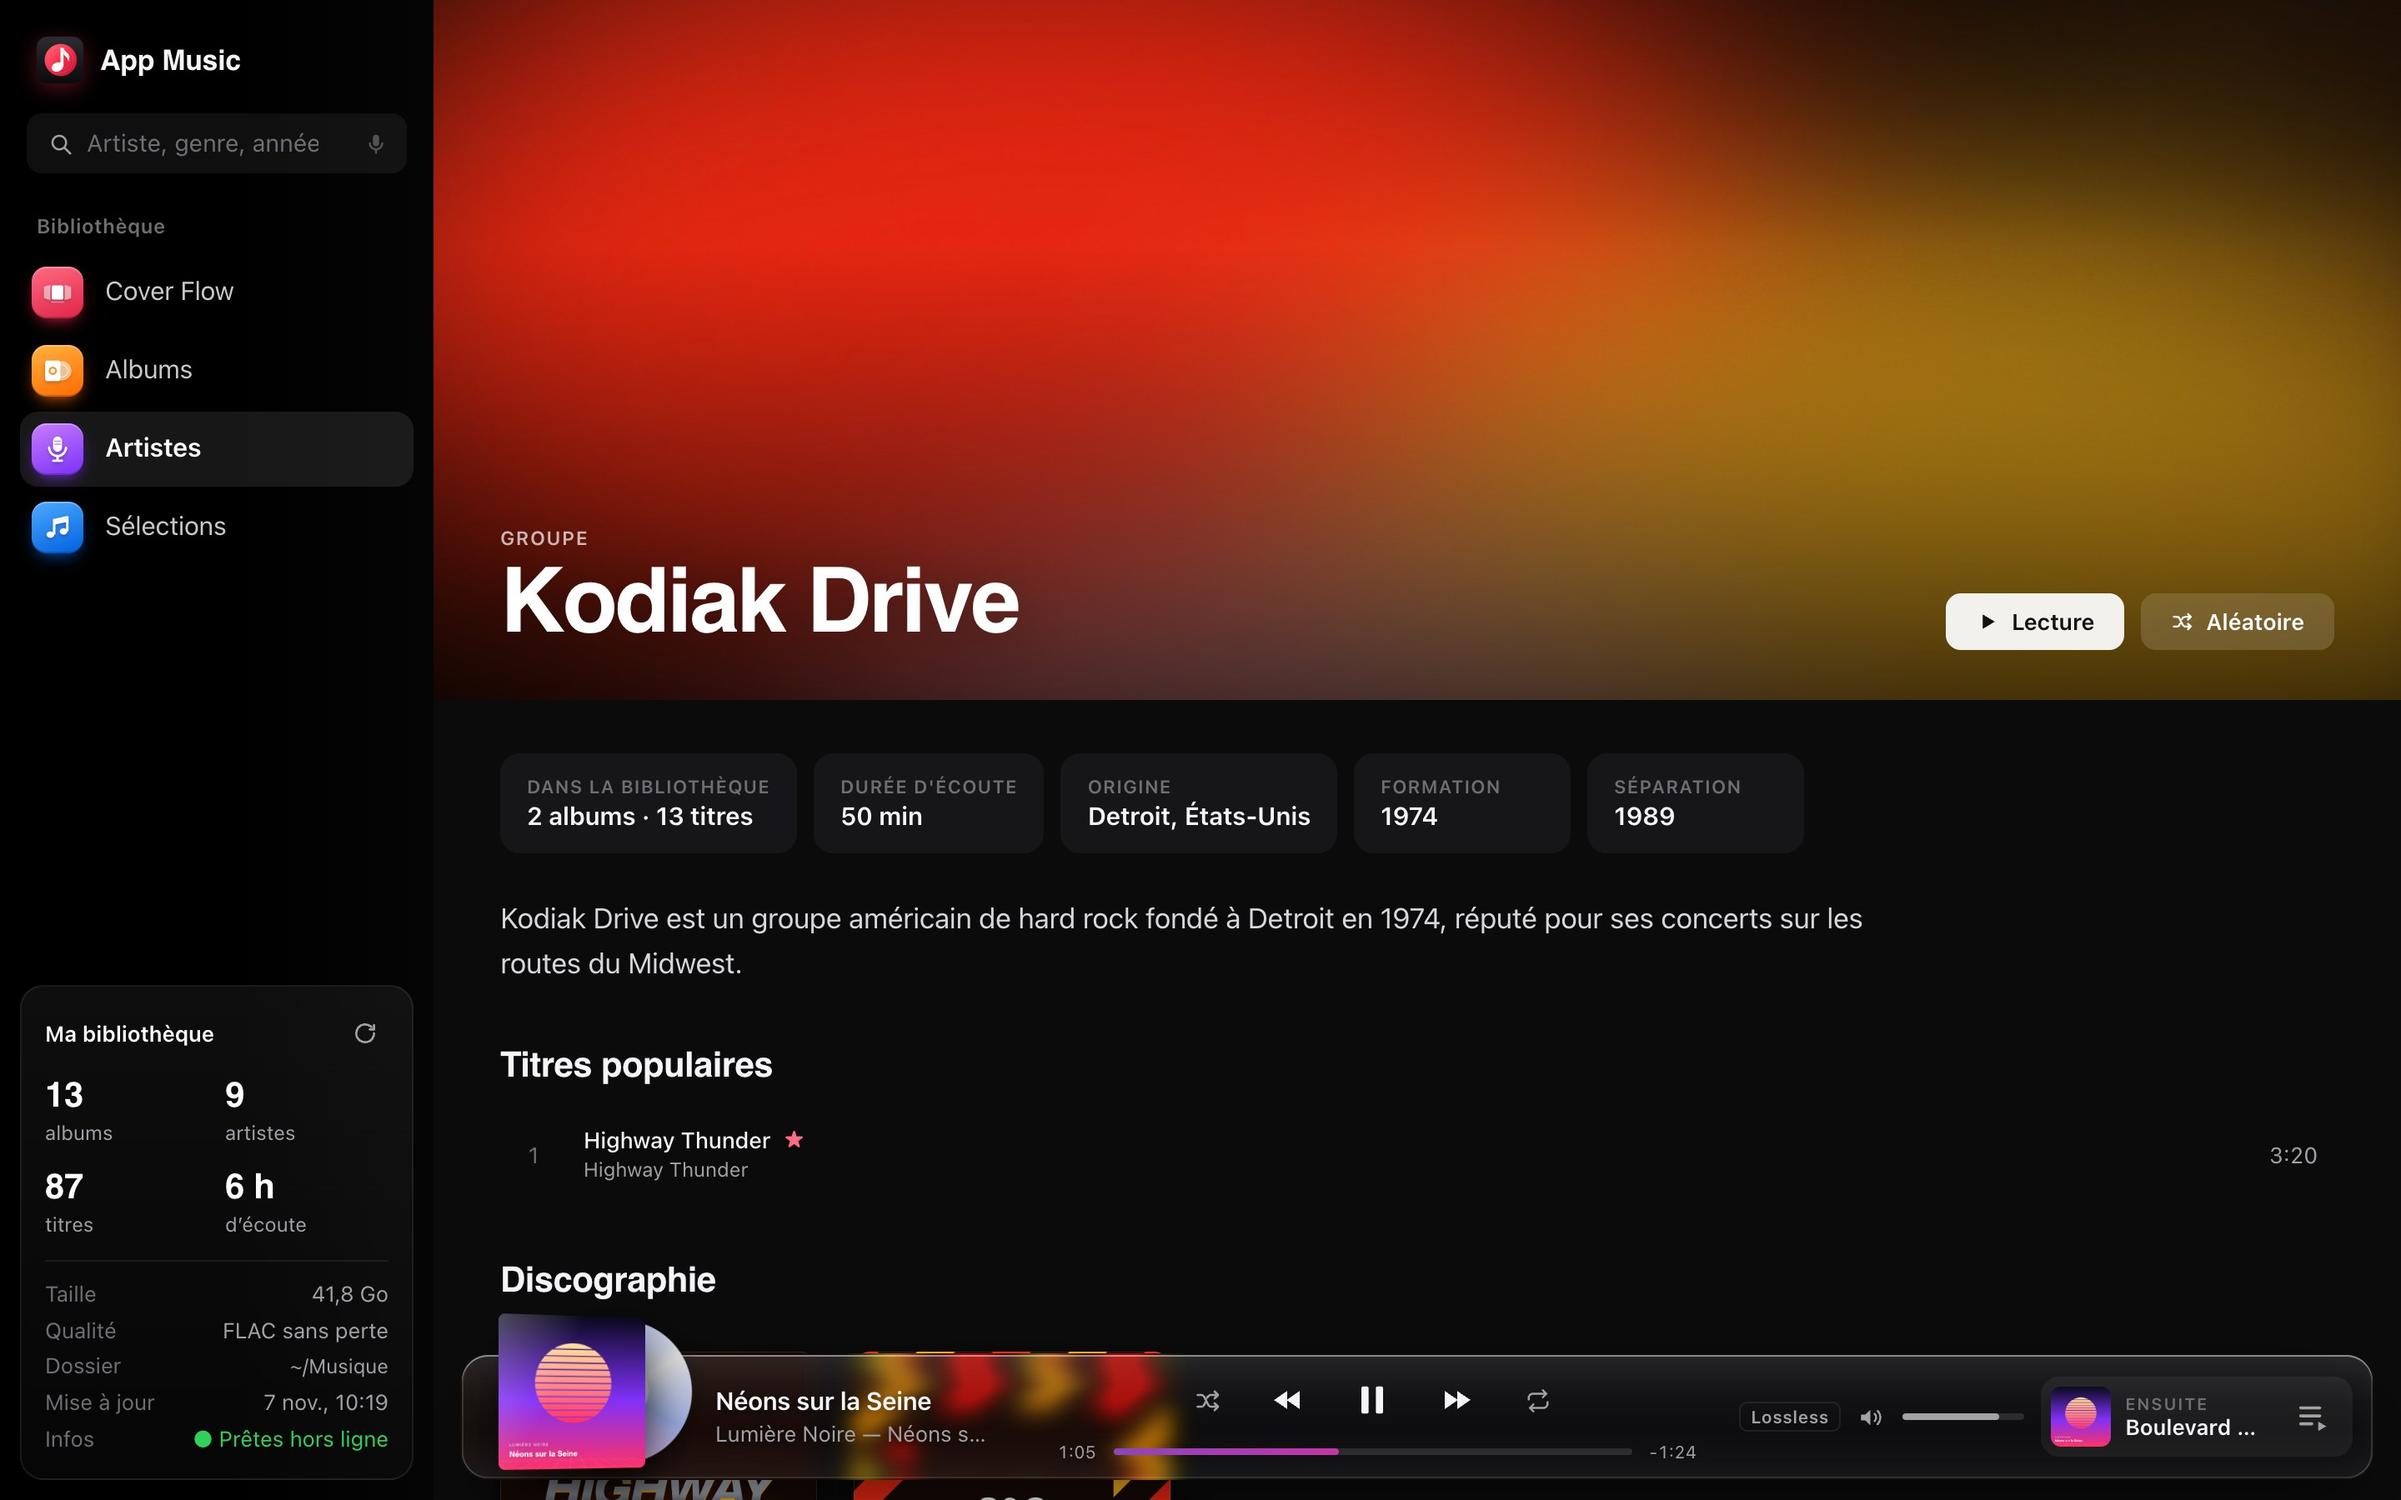
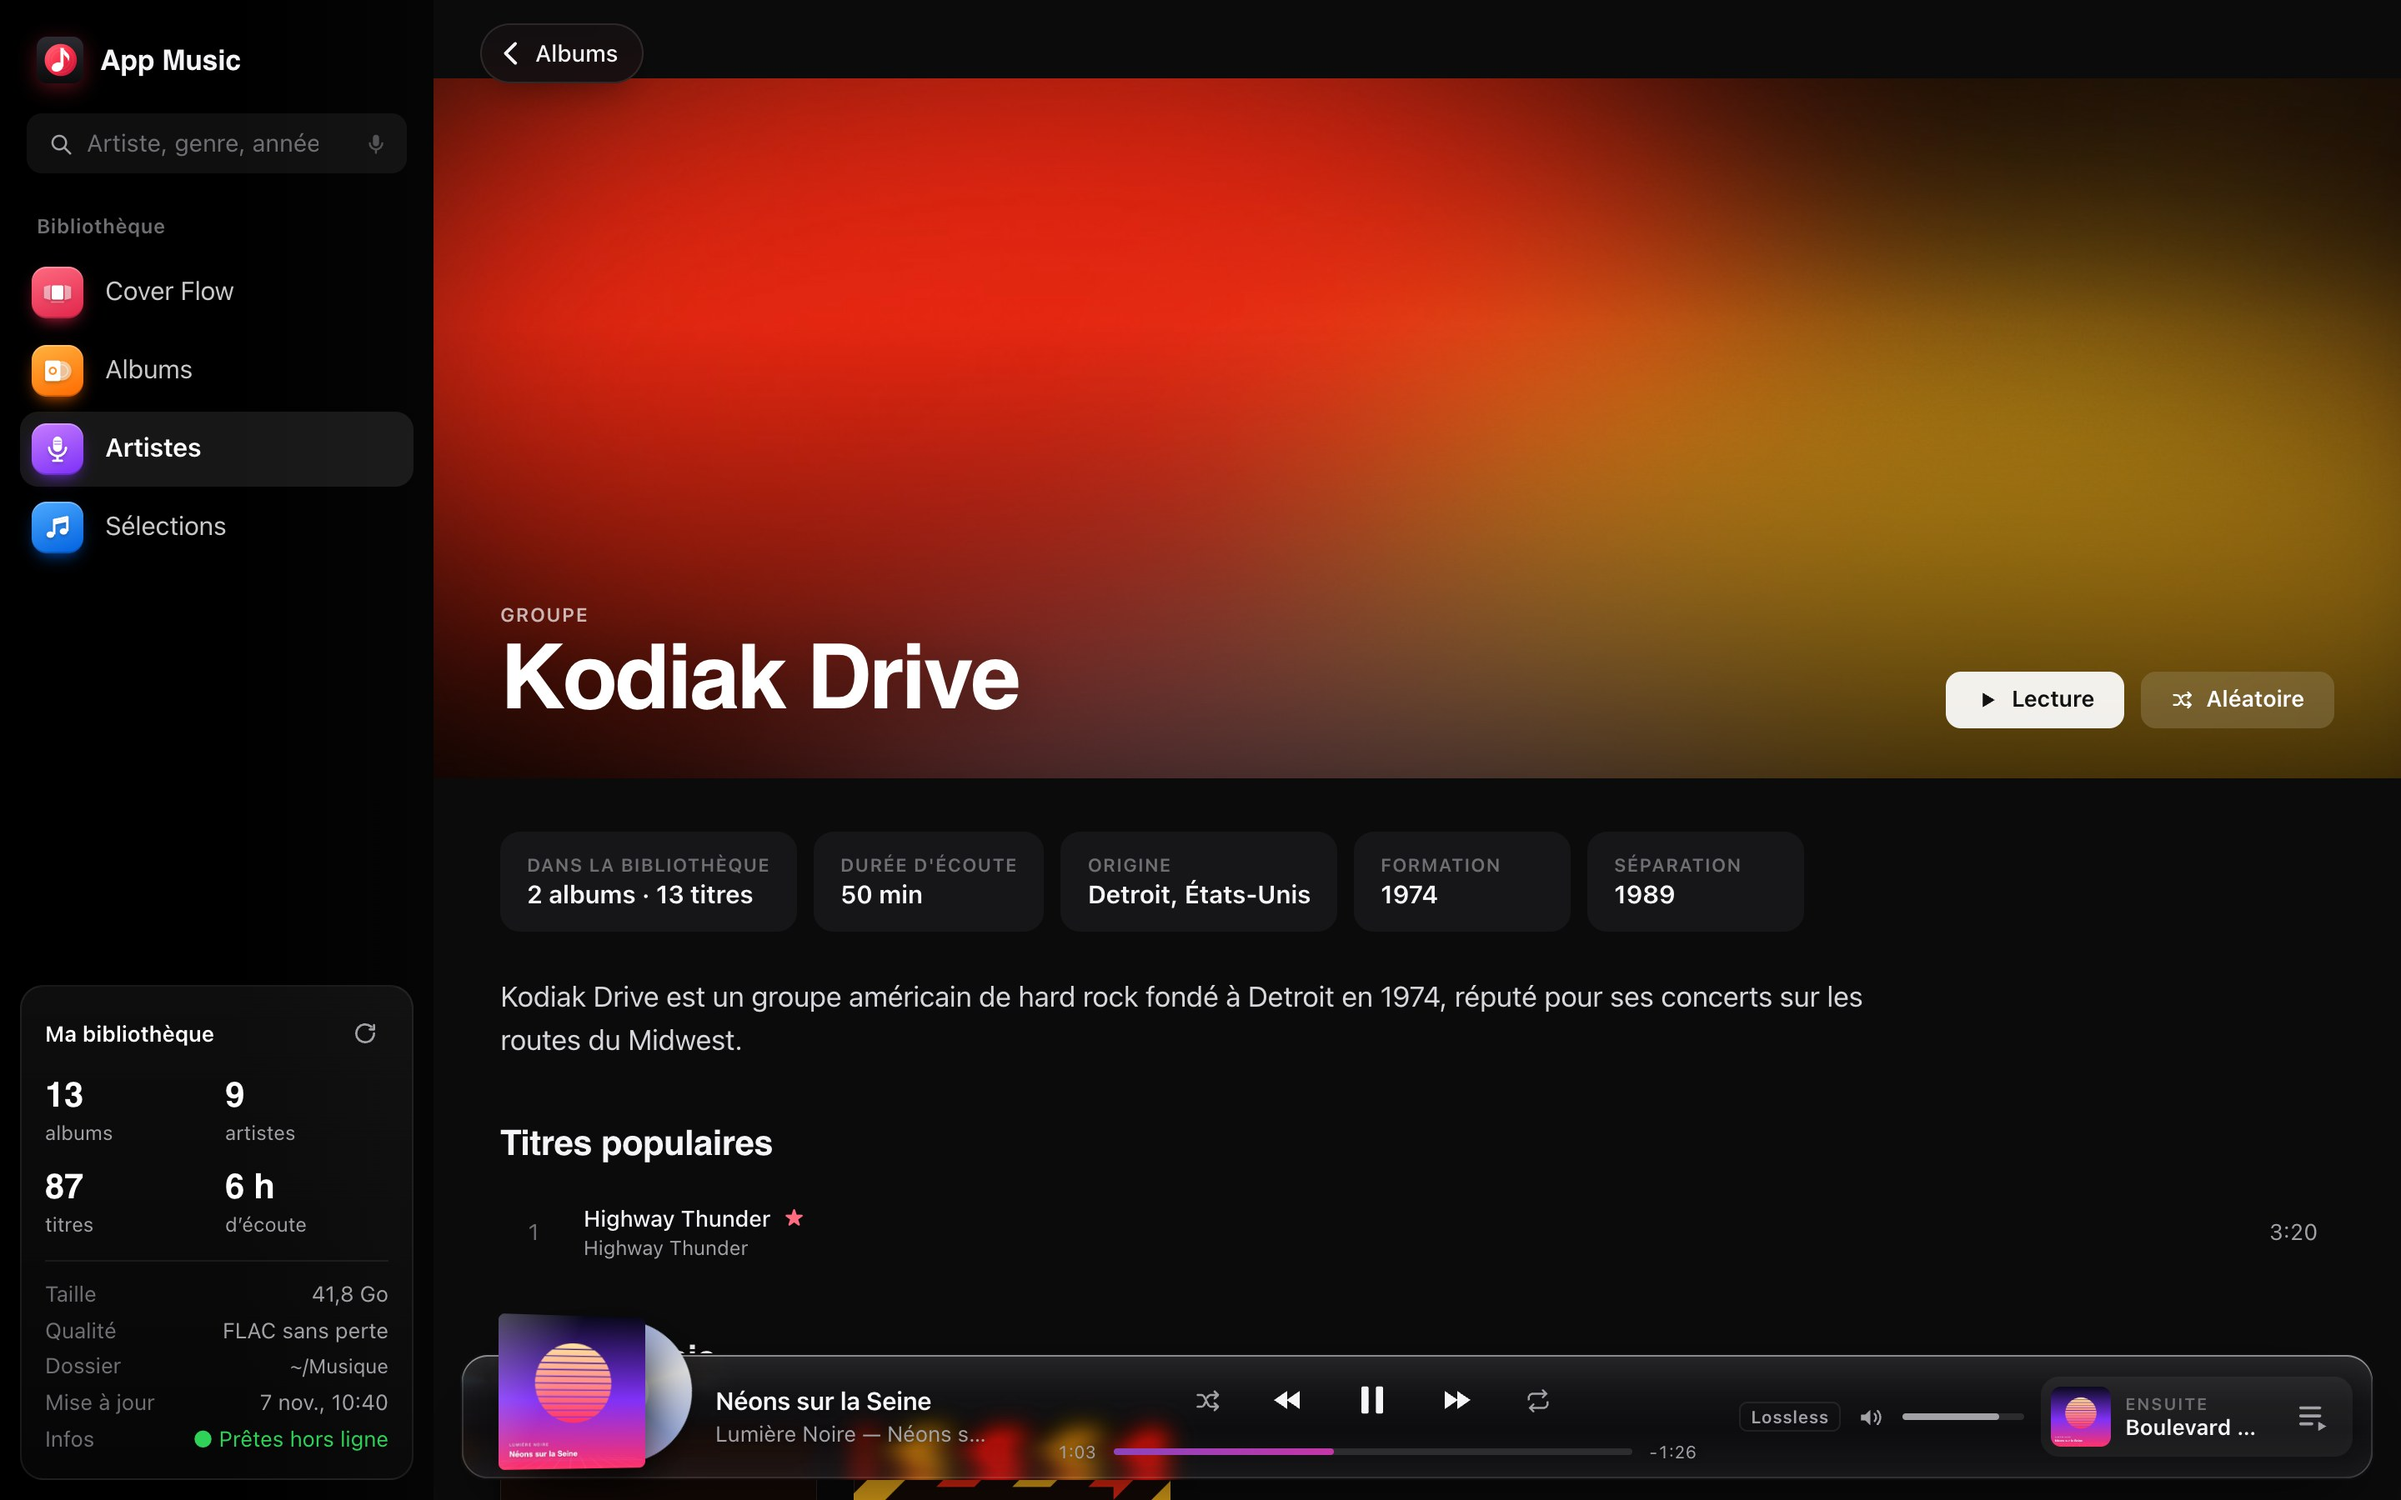
Bouton « Retour » sur les pages album, artiste, sélection et MP3 (revient d'où l'on vient)

diff --git a/public/app.js b/public/app.js
@@ -163,7 +163,47 @@ const view = $('#view');
 let cleanup = null;
 let currentHash = location.hash;
 let arriving = null; // album ouvert depuis le Cover Flow (transition animée)
+// Fil de navigation dans l'app : le bouton « Retour » revient là d'où l'on vient (album ouvert depuis un artiste, une recherche, une sélection…)
+const trail = [];
+const sameStop = (a, b) => a === b || (/^#\/?search/.test(a || '') && /^#\/?search/.test(b || ''));
+const TOP = { flow: 'Cover Flow', albums: 'Albums', artists: 'Artistes', selections: 'Sélections', mp3: 'Albums en MP3' };
+function stopLabel(hash) {
+  const [name, arg] = (hash || '').replace(/^#\/?/, '').split('/');
+  const id = arg && decodeURIComponent(arg);
+  if (name === 'album') return A.get(id)?.title || 'Album';
+  if (name === 'artist') return R.get(id)?.name || 'Artiste';
+  if (name === 'selection') return mixes().get(id)?.title || 'Sélection';
+  if (name === 'search') return 'Recherche';
+  return TOP[name] || TOP[store.get('lastView', 'flow')] || 'Cover Flow';
+}
+// où revenir quand on arrive directement sur la page (lien, rechargement)
+function fallbackStop(name, arg) {
+  if (name === 'album') { const a = A.get(arg); return a && R.get(a.artistId) ? `#/artist/${a.artistId}` : '#/albums'; }
+  return { artist: '#/artists', selection: '#/selections' }[name] || '#/' + store.get('lastView', 'flow');
+}
+function backTarget() {
+  if (trail.length > 1) return { hash: trail[trail.length - 2], history: true };
+  const [name, arg] = location.hash.replace(/^#\/?/, '').split('/');
+  return { hash: fallbackStop(name, arg && decodeURIComponent(arg)), history: false };
+}
+function navigateBack() {
+  const t = backTarget();
+  if (t.history) history.back(); else location.hash = t.hash;
+}
+function addBackButton() {
+  const t = backTarget();
+  const b = document.createElement('button');
+  b.className = 'back-btn'; b.id = 'b-back'; b.title = 'Revenir (Échap)';
+  b.innerHTML = `<svg viewBox="0 0 24 24"><path d="m14.5 5-7 7 7 7" fill="none" stroke="currentColor" stroke-width="2.4" stroke-linecap="round" stroke-linejoin="round"/></svg><span></span>`;
+  b.querySelector('span').textContent = stopLabel(t.hash);
+  b.onclick = navigateBack;
+  view.prepend(b);
+}
 function route() {
+  if (sameStop(trail[trail.length - 2], location.hash)) trail.pop();
+  else if (sameStop(trail[trail.length - 1], location.hash)) trail[trail.length - 1] = location.hash;
+  else trail.push(location.hash);
+  if (trail.length > 50) trail.shift();
   const h = location.hash.replace(/^#\/?/, '') || store.get('lastView', 'flow');
   let [name, arg] = h.split('/');
   if (name === 'tracks') name = 'selections'; // ancienne page « Titres »
@@ -175,6 +215,7 @@ function route() {
   view.scrollTop = 0;
   if (['flow', 'albums', 'artists', 'selections'].includes(name)) store.set('lastView', name);
   ({ flow: viewFlow, albums: viewAlbums, album: viewAlbum, artists: viewArtists, artist: viewArtist, selections: viewSelections, selection: viewSelection, search: viewSearch, mp3: viewLossy }[name] || viewFlow)(arg && decodeURIComponent(arg));
+  if (['album', 'artist', 'selection', 'mp3'].includes(name)) addBackButton();
   nav.makeFocusable(view);
   if (name !== 'search' || document.activeElement !== $('#search')) nav.restore(location.hash);
   currentHash = location.hash;
@@ -1057,7 +1098,8 @@ function goBack() {
   if ($('#voice').classList.contains('open')) return stopVoice();
   if ($('#queue').classList.contains('open')) { $('#q-close').click(); return nav.focusEl($('#b-queue')); }
   if (np.classList.contains('open')) { closeNP(); return nav.focusEl($('#p-now')); }
-  if (/^#\/?(album|artist|search)/.test(location.hash) && history.length > 1) return history.back();
+  if (/^#\/?(album|artist|selection|mp3)/.test(location.hash)) return navigateBack();
+  if (/^#\/?search/.test(location.hash) && history.length > 1) return history.back();
 }
 function adjustSlider(el, dir) {
   const step = dir === 'right' ? 1 : -1;

diff --git a/tests/ui.test.js b/tests/ui.test.js
@@ -99,6 +99,23 @@ describe('interface', { skip: !executablePath && 'aucun navigateur Chromium trou
     await page.waitForFunction(() => document.body.classList.contains('paused'));
   });
 
+  test('bouton Retour : revient d’où l’on vient, et a un repli quand on arrive directement', async () => {
+    const nb = album('Nuit Blanche');
+    await go('#/selections', '.mix-card');
+    await go(`#/artist/${nb.artistId}`, `[data-album="${nb.id}"]`);
+    assert.equal(await page.textContent('#b-back span'), 'Sélections');
+    await go(`#/album/${nb.id}`, '.tracklist');
+    assert.equal(await page.textContent('#b-back span'), 'Les Étoiles Filantes');
+    await page.click('#b-back'); await page.waitForFunction((h) => location.hash === h, `#/artist/${nb.artistId}`);
+    await page.waitForSelector('#b-back'); assert.equal(await page.textContent('#b-back span'), 'Sélections');
+    await page.click('#b-back'); await page.waitForFunction(() => location.hash === '#/selections');
+    assert.equal(await page.$('#b-back'), null, 'pas de bouton sur les pages principales');
+    // arrivée directe (rechargement) sur un album : retour vers l’artiste
+    await go(`#/album/${nb.id}`, '#b-back'); await page.reload(); await page.waitForSelector('#b-back');
+    assert.equal(await page.textContent('#b-back span'), 'Les Étoiles Filantes');
+    await page.click('#b-back'); await page.waitForFunction((h) => location.hash === h, `#/artist/${nb.artistId}`);
+  });
+
   test('« À suivre » : glisser un titre, un album, réorganiser, vider, garder au rechargement', async () => {
     await go(`#/album/${album('Nuit Blanche').id}`, '.tracklist tr[data-track]');
     await page.click('.tracklist tr[data-track]'); await sleep(300); await page.click('#b-play');

diff --git a/public/styles.css b/public/styles.css
@@ -88,6 +88,14 @@ nav a:hover .nav-ic { transform: scale(1.06); }
 main { overflow-y: auto; overflow-x: hidden; position: relative; outline: none; padding-bottom: calc(var(--player-h) + 30px); }
 .view-enter { animation: viewIn .45s var(--ease); }
 @keyframes viewIn { from { opacity: 0; transform: translateY(8px); } }
+/* bouton « Retour » (album, artiste, sélection) : reste en haut pendant le défilement */
+.back-btn { position: sticky; top: 14px; z-index: 6; display: inline-flex; align-items: center; gap: 4px; height: 36px; max-width: 320px; margin: 14px 0 -50px 28px; padding: 0 14px 0 8px;
+  border-radius: 18px; font-size: 14px; font-weight: 500; color: var(--text); background: rgba(20, 20, 22, .5); backdrop-filter: blur(20px) saturate(170%); -webkit-backdrop-filter: blur(20px) saturate(170%);
+  border: 1px solid rgba(255, 255, 255, .1); box-shadow: 0 8px 24px -10px rgba(0, 0, 0, .6); transition: background .2s, transform .15s; }
+.back-btn:hover { background: rgba(50, 50, 54, .7); }
+.back-btn:active { transform: scale(.96); }
+.back-btn svg { width: 20px; height: 20px; flex: none; }
+.back-btn span { white-space: nowrap; overflow: hidden; text-overflow: ellipsis; }
 .page { padding: 34px 40px 0; max-width: 1500px; margin: 0 auto; }
 .page-head { display: flex; align-items: flex-end; justify-content: space-between; gap: 20px; margin-bottom: 22px; }
 h1 { font: 700 30px/1.1 -apple-system, "SF Pro Display", sans-serif; letter-spacing: -.02em; margin: 0; }
